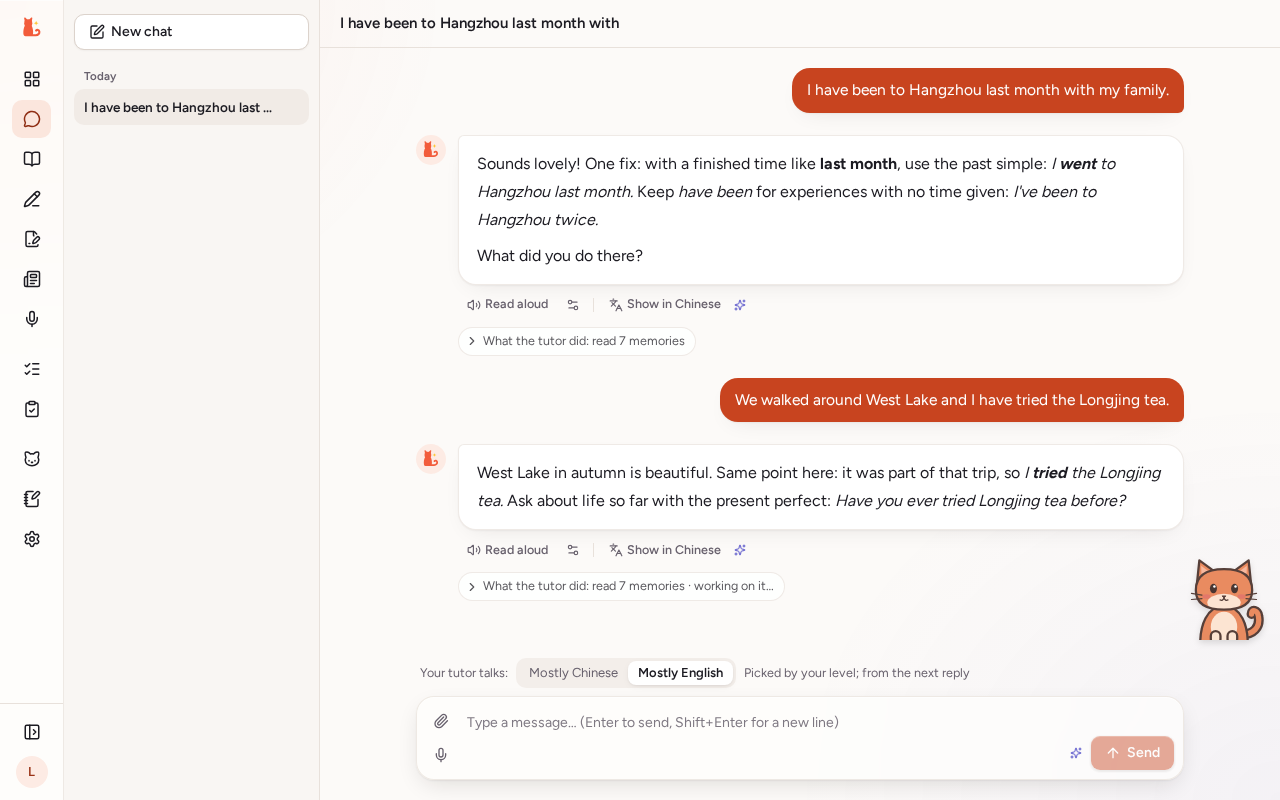
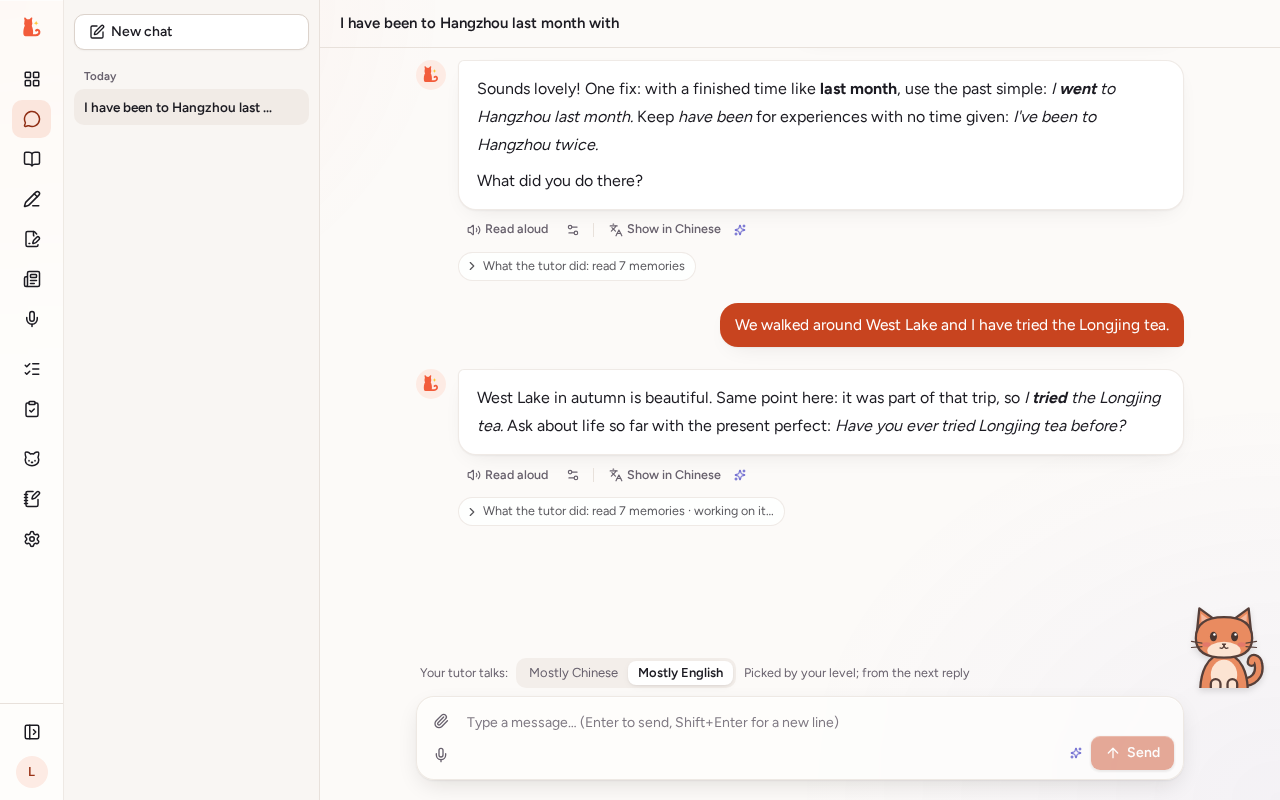
feat(ui): 桌宠避让，页面滚动区末尾给猫留位置，聊天页自动升到输入框上方（任务 73.6）
截图里桌宠压住学习者模型的进度条、看板的计划卡：它默认停在离底 160px，
正好在内容中间。现在默认停在右下角，页面滚动区末尾用 pet-safe 留出猫的
高度，滚到底时最后一张卡能完整露出来。聊天页量输入框顶部，猫自动停在
它上方，不再挡发送按钮。hop 动画维持原来的长等待用法。

diff --git a/frontend/src/components/tutor/tutor-pet.tsx b/frontend/src/components/tutor/tutor-pet.tsx
@@ -51,6 +51,44 @@ function useWide(): boolean {
   );
 }
 
+/**
+ * How far above the window's bottom the top of the chat input box is, plus a gap, while
+ * on the chat page (task 73.6): the pet keeps above it instead of covering the send
+ * button. 0 elsewhere. Followed as the box grows with the text and as the window resizes.
+ */
+function useComposerClearance(on: boolean): number {
+  const [clearance, setClearance] = useState(0);
+  useEffect(() => {
+    if (!on) return;
+    let observer: ResizeObserver | undefined;
+    let watched: Element | null = null;
+    const measure = () => {
+      const composer = document.querySelector("[data-chat-composer]");
+      if (composer !== watched) {
+        observer?.disconnect();
+        watched = composer;
+        if (composer && typeof ResizeObserver !== "undefined") {
+          observer = new ResizeObserver(measure);
+          observer.observe(composer);
+        }
+      }
+      const top = composer?.getBoundingClientRect().top;
+      setClearance(top === undefined ? 0 : Math.max(0, Math.round(window.innerHeight - top + 8)));
+    };
+    measure();
+    // The page may render its input box after the pet: look again once it has.
+    const later = setTimeout(measure, 300);
+    window.addEventListener("resize", measure);
+    return () => {
+      clearTimeout(later);
+      observer?.disconnect();
+      window.removeEventListener("resize", measure);
+      setClearance(0);
+    };
+  }, [on]);
+  return on ? clearance : 0;
+}
+
 /** Where a pet dropped with its box at `rect` settles: the nearer edge, at that height. */
 export function placeAfterDrop(
   rect: { left: number; top: number; width: number; height: number },
@@ -148,6 +186,17 @@ export function TutorPet() {
     };
   }, [drag, collapsed, setPlace]);
 
+  const clearance = useComposerClearance(onChatPage && !!tutor?.pet);
+  const shown = tutor?.pet ? (place.collapsed ? "collapsed" : "full") : null;
+  // Pages leave room for the pet at the end of their scroll area (`pet-safe` in globals.css).
+  useEffect(() => {
+    if (!shown) return;
+    document.documentElement.dataset.pet = shown;
+    return () => {
+      delete document.documentElement.dataset.pet;
+    };
+  }, [shown]);
+
   if (!tutor?.pet) return null;
   const name = tutor.display_name;
   const size = place.collapsed ? COLLAPSED_SIZE : wide ? PET_SIZE.wide : PET_SIZE.narrow;
@@ -176,12 +225,13 @@ export function TutorPet() {
   };
 
   const moving = drag?.at ?? null;
-  // Kept on screen whatever the window's size: above the phone's tab bar, below the top.
+  // Kept on screen whatever the window's size: above the phone's tab bar (and the chat
+  // input box), below the top.
   const style: React.CSSProperties = moving
     ? { left: moving.left, top: moving.top }
     : {
         [place.side]: place.collapsed ? 0 : EDGE_PX,
-        bottom: `min(max(${place.bottom}px, var(--pet-min-bottom)), calc(100dvh - ${size + EDGE_PX}px))`,
+        bottom: `min(max(${place.bottom}px, ${clearance}px, var(--pet-min-bottom)), calc(100dvh - ${size + EDGE_PX}px))`,
       };
 
   return (
@@ -198,7 +248,8 @@ export function TutorPet() {
       className={cn(
         "group fixed z-40 touch-none select-none",
         "[--pet-min-bottom:16px] max-md:[--pet-min-bottom:calc(4rem+env(safe-area-inset-bottom)+8px)]",
-        moving ? "cursor-grabbing" : "cursor-grab",
+        // Glides up when it makes way for the chat input box; never while dragged.
+        moving ? "cursor-grabbing" : "cursor-grab motion-safe:transition-[bottom] motion-safe:duration-200",
       )}
     >
       {place.collapsed ? (

diff --git a/frontend/src/components/tutor/tutor-pet.test.tsx b/frontend/src/components/tutor/tutor-pet.test.tsx
@@ -99,6 +99,35 @@ describe("TutorPet", () => {
     expect(screen.getByRole("img", { name: "Max, your tutor" })).toHaveAttribute("data-animate", "false");
   });
 
+  it("tells the pages to leave room for it while it shows (task 73.6)", async () => {
+    const { unmount } = show();
+    expect(document.documentElement.dataset.pet).toBe("full");
+    await userEvent.click(screen.getByRole("button", { name: "Collapse the desk pet" }));
+    expect(document.documentElement.dataset.pet).toBe("collapsed");
+    unmount();
+    expect(document.documentElement.dataset.pet).toBeUndefined();
+  });
+
+  it("keeps above the chat input box on the chat page (task 73.6)", () => {
+    nav.pathname = "/chat";
+    const composer = document.createElement("div");
+    composer.setAttribute("data-chat-composer", "");
+    composer.getBoundingClientRect = () => ({ top: 700 }) as DOMRect;
+    document.body.append(composer);
+    try {
+      show();
+      // 800 high window, box top at 700: 100 below it, plus an 8px gap.
+      expect(screen.getByTestId("tutor-pet").style.bottom).toContain("108px");
+    } finally {
+      composer.remove();
+    }
+  });
+
+  it("does not move for the input box on other pages", () => {
+    show();
+    expect(screen.getByTestId("tutor-pet").style.bottom).toContain(", 0px,");
+  });
+
   it("collapses to a small button and comes back, remembered on this device", async () => {
     show();
     await userEvent.click(screen.getByRole("button", { name: "Collapse the desk pet" }));

diff --git a/frontend/src/app/globals.css b/frontend/src/app/globals.css
@@ -224,6 +224,28 @@
   backdrop-filter: blur(24px) saturate(170%);
 }
 
+/* Room at the end of a page's scroll area for the desk pet (task 73.6, Q73d), so the last
+   card can scroll out from under it. `--pet-safe` is set while the pet shows: its size plus
+   the gap below it (88 + 16 on wide screens, 64 + 16 on phones, 40 + 16 collapsed). */
+:root[data-pet="full"] {
+  --pet-safe: 104px;
+}
+:root[data-pet="collapsed"] {
+  --pet-safe: 56px;
+}
+@media (max-width: 767px) {
+  :root[data-pet="full"] {
+    --pet-safe: 80px;
+  }
+}
+@utility pet-safe {
+  &::after {
+    content: "";
+    display: block;
+    height: var(--pet-safe, 0px);
+  }
+}
+
 /* Readers who ask for less transparency, or browsers without backdrop-filter, get solid layers. */
 @media (prefers-reduced-transparency: reduce) {
   :root,

diff --git a/frontend/src/lib/preferences.ts b/frontend/src/lib/preferences.ts
@@ -82,8 +82,9 @@ export function useReviewChoice(): [ReviewChoice, (choice: ReviewChoice) => void
  */
 export type PetPlace = { side: "left" | "right"; bottom: number; collapsed: boolean };
 
-// High enough to keep clear of the chat box and the send button below it.
-export const DEFAULT_PET_PLACE: PetPlace = { side: "right", bottom: 160, collapsed: false };
+// The corner (task 73.6): pages leave room for it at the end of their scroll area, and on
+// the chat page it rises above the input box by itself.
+export const DEFAULT_PET_PLACE: PetPlace = { side: "right", bottom: 16, collapsed: false };
 
 /** What is stored, or the default for anything missing or malformed. */
 export function parsePetPlace(raw: string | null): PetPlace {

diff --git a/frontend/src/components/chat/composer.tsx b/frontend/src/components/chat/composer.tsx
@@ -105,7 +105,7 @@ export function Composer({
     <form onSubmit={submit} className="w-full px-2.5 pt-1.5 pb-3 md:px-8 md:pt-2 md:pb-5">
       <div className="mx-auto flex max-w-3xl flex-col gap-2">
         {toolbar}
-        <div className="glass-pop flex flex-col rounded-[18px] border transition-[border-color,box-shadow] focus-within:border-ring focus-within:ring-3 focus-within:ring-ring/20">
+        <div data-chat-composer className="glass-pop flex flex-col rounded-[18px] border transition-[border-color,box-shadow] focus-within:border-ring focus-within:ring-3 focus-within:ring-ring/20">
           <div className="px-2.5 pt-2.5 empty:hidden">
             <AttachmentTrayView tray={tray} />
           </div>

diff --git a/frontend/src/components/chat/message-list.tsx b/frontend/src/components/chat/message-list.tsx
@@ -82,7 +82,7 @@ export function MessageList({
   return (
     // The side padding sits outside the max width, as in the composer, so the avatar and
     // the bubbles line up with the input box's edges.
-    <div ref={scrollRef} className="min-h-0 flex-1 overflow-y-auto px-3 md:px-8">
+    <div ref={scrollRef} className="pet-safe min-h-0 flex-1 overflow-y-auto px-3 md:px-8">
       <ol
         ref={listRef}
         className="mx-auto flex max-w-3xl flex-col gap-[22px] py-5"

diff --git a/frontend/src/components/settings/settings-app.tsx b/frontend/src/components/settings/settings-app.tsx
@@ -67,7 +67,7 @@ export function SettingsApp() {
   }, []);
 
   return (
-    <div ref={scroller} className="flex-1 overflow-y-auto">
+    <div ref={scroller} className="pet-safe flex-1 overflow-y-auto">
       <div className="mx-auto flex max-w-5xl flex-col gap-3.5 p-4 md:gap-4 md:px-10 md:py-8">
         <h1 className="text-[26px] font-bold tracking-tight max-md:sr-only">{tNav("settings")}</h1>
         <div className="lg:grid lg:grid-cols-[minmax(0,1fr)_10rem] lg:gap-8">

diff --git a/frontend/src/components/memory/memory-app.tsx b/frontend/src/components/memory/memory-app.tsx
@@ -9,7 +9,7 @@ import { ProfileSection } from "./profile-section";
 export function MemoryApp() {
   const tNav = useTranslations("nav");
   return (
-    <div className="flex-1 overflow-y-auto">
+    <div className="pet-safe flex-1 overflow-y-auto">
       <div className="mx-auto flex max-w-3xl flex-col gap-3.5 p-4 md:gap-4 md:px-10 md:py-8">
         <h1 className="text-[26px] font-bold tracking-tight max-md:sr-only">{tNav("memory")}</h1>
         <ProfileSection />

diff --git a/frontend/src/components/learner/learner-app.tsx b/frontend/src/components/learner/learner-app.tsx
@@ -128,7 +128,7 @@ export function LearnerApp({ focusKc }: { focusKc: string | null }) {
   const shown = model ? filterKcs(model.kcs, filter) : [];
 
   return (
-    <div className="flex-1 overflow-y-auto">
+    <div className="pet-safe flex-1 overflow-y-auto">
       <div className="mx-auto flex max-w-5xl flex-col gap-3.5 p-4 md:gap-4 md:px-10 md:py-8">
         <h1 className="mb-1 text-[26px] font-bold tracking-tight max-md:sr-only">
           {tNav("learner")}

diff --git a/frontend/src/components/reading/reading-list.tsx b/frontend/src/components/reading/reading-list.tsx
@@ -98,7 +98,7 @@ export function ReadingList() {
   const followed = feeds?.filter((f) => f.subscribed) ?? [];
 
   return (
-    <div className="flex-1 overflow-y-auto">
+    <div className="pet-safe flex-1 overflow-y-auto">
       <div className="mx-auto flex max-w-2xl flex-col gap-3.5 p-4 md:gap-4 md:px-10 md:py-8">
         <header className="flex flex-wrap items-start justify-between gap-3">
           <div className="flex min-w-0 flex-col gap-1">

diff --git a/frontend/src/components/speaking/speaking-list.tsx b/frontend/src/components/speaking/speaking-list.tsx
@@ -100,7 +100,7 @@ export function SpeakingList() {
   const others = scenarios?.scenarios.filter((s) => !s.suits) ?? [];
 
   return (
-    <div className="flex-1 overflow-y-auto">
+    <div className="pet-safe flex-1 overflow-y-auto">
       <div className="mx-auto flex max-w-2xl flex-col gap-3.5 p-4 md:gap-4 md:px-10 md:py-8">
         <header className="flex min-w-0 flex-col gap-1">
           <h1 className="text-xl font-semibold">{t("title")}</h1>

diff --git a/frontend/src/components/speaking/speaking-summary.tsx b/frontend/src/components/speaking/speaking-summary.tsx
@@ -94,7 +94,7 @@ export function SpeakingSummaryView({
   const summary = detail.summary;
 
   return (
-    <div className="flex-1 overflow-y-auto">
+    <div className="pet-safe flex-1 overflow-y-auto">
       <div className="mx-auto flex max-w-2xl flex-col gap-4 p-4 md:px-10 md:py-8" data-testid="speaking-summary" data-status={detail.status}>
         <header className="flex flex-col gap-2">
           <div className="flex items-center gap-2">
